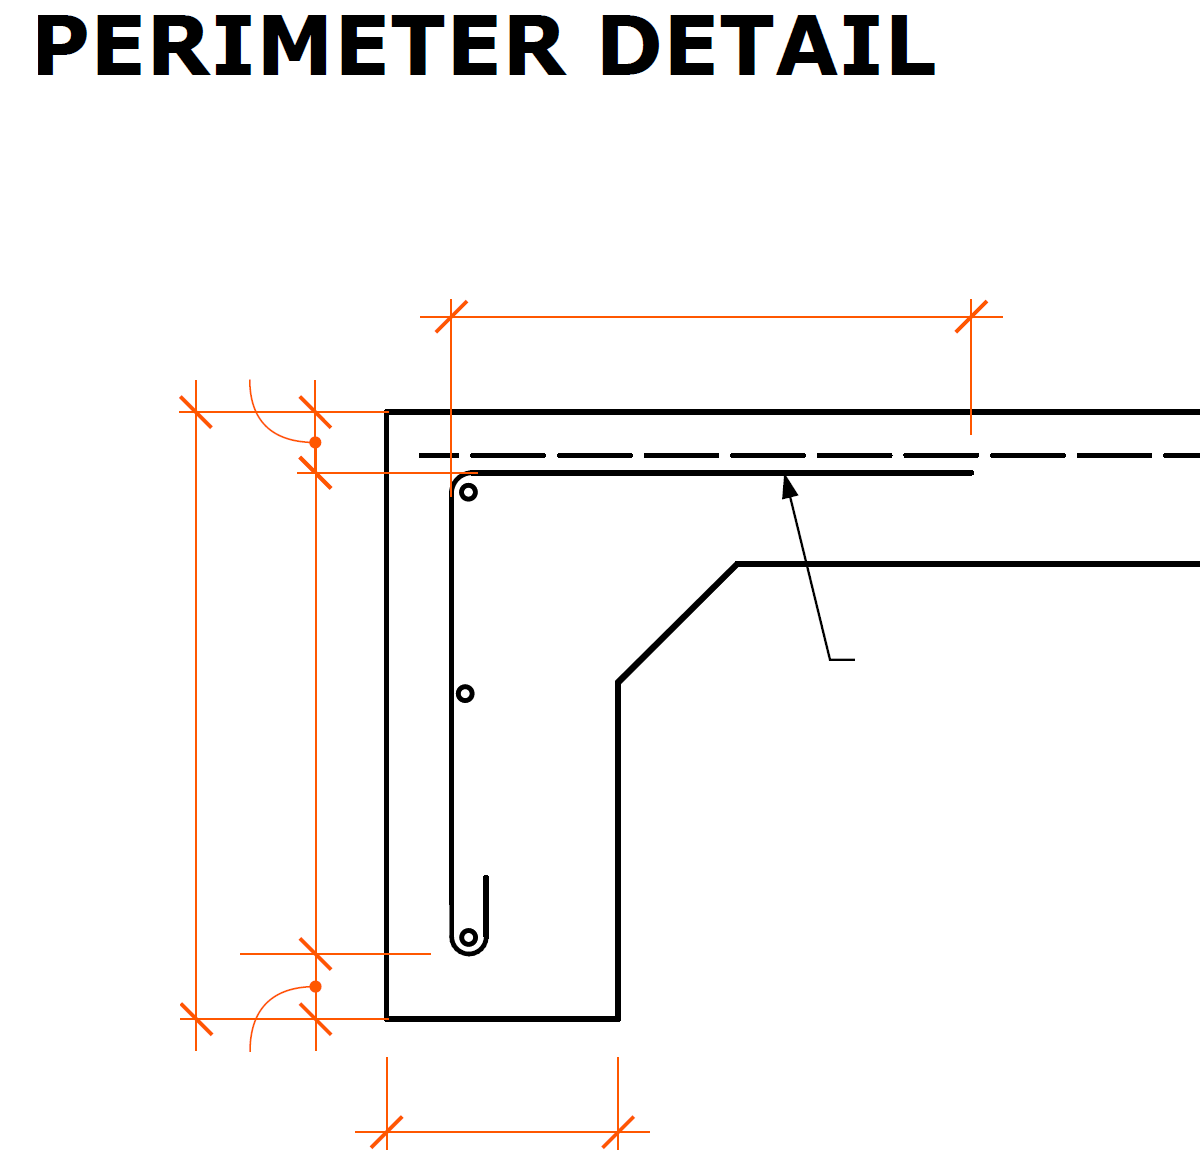
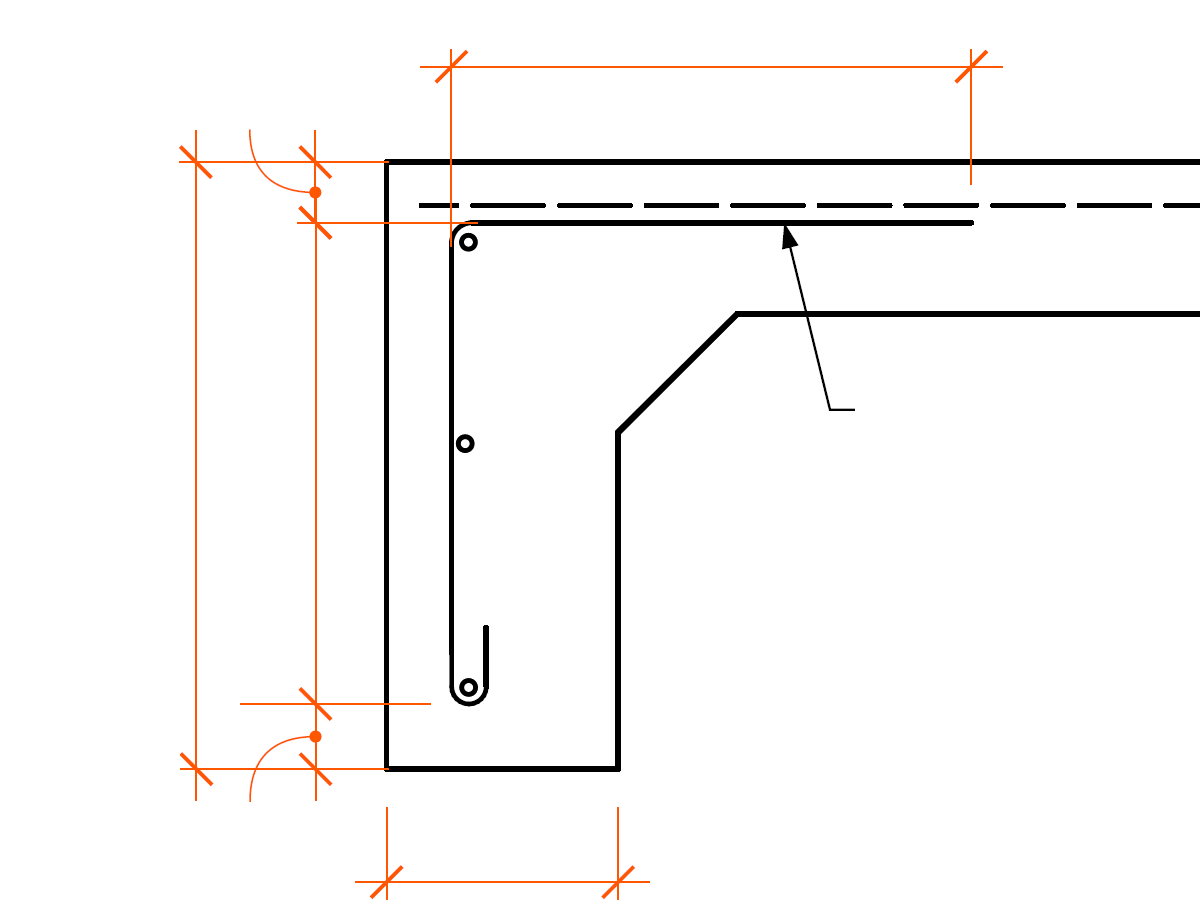
section details export, generovane pismena, upravene obrazky (je ale potrebne znovu nastavit koty v obrazkoch)

diff --git a/GENERAL/EXPIMP/Export/CMainReportExport.cs b/GENERAL/EXPIMP/Export/CMainReportExport.cs
@@ -904,6 +904,9 @@ namespace EXPIMP
             XFont fontNote = new XFont(fontFamily, fontSizeDetailTable, XFontStyle.Bold, options);
             XBrush brushNote = XBrushes.Black;
 
+            XFont fontBold_Title1 = new XFont("Verdana", 17, XFontStyle.Bold, options);
+            XFont fontBold_Title2 = new XFont("Verdana", 12, XFontStyle.Bold, options);
+
             CSlab slab = data.Model.m_arrSlabs.FirstOrDefault();
             if (slab == null) return;
             // To Mato - je to takto dobre? ze ak je null tak nemame co robit? 
@@ -974,13 +977,16 @@ namespace EXPIMP
 
             // TODO - skontrolovat ci sa dalsi obrazok vojde do sirky stranky, ak nie pridat novy rad (len ak sa vojde na vysku) alebo novu stranku
             // 2nd row
+            int verticalMargin = 50;
             dImagePosition_x = 2; // Zaciname znova od laveho okraja
-            double dRowPosition2 = dRowPosition;
+            double dRowPosition2 = dRowPosition + verticalMargin;
 
+            List<string> sectionDetailsLetters = new List<string>() { "A", "B", "C", "D", "E", "F" };
+            int sectionDetailsLetterIndex = 0;
+            string letter;
             List<CSlabPerimeter> diff_perimetersWithoutRebates = GetDifferentPerimetersWithoutRebates(slab.PerimeterBeams);
             List<CSlabPerimeter> diff_perimetersWithRebates = GetDifferentPerimetersWithRebates(slab.PerimeterBeams);
-            //diff perimeters aj s uvazoovanim RebateWidth a potom podala toho obrazky s SlabRebates
-
+            
             foreach (CSlabPerimeter perimeter in diff_perimetersWithoutRebates)
             {
                 XImage image = XImage.FromFile(ConfigurationManager.AppSettings["PerimeterDetail"]);
@@ -988,6 +994,11 @@ namespace EXPIMP
                 double imageHeightOriginal = image.PixelHeight;
                 gfx.DrawImage(image, dImagePosition_x, dRowPosition2, imageWidthOriginal * scale, imageHeightOriginal * scale);
                 image.Dispose();
+
+                letter = sectionDetailsLetters[sectionDetailsLetterIndex];
+                sectionDetailsLetterIndex++;
+                gfx.DrawString($"SECTION {letter}-{letter}", fontBold_Title1, XBrushes.Blue, dImagePosition_x + 20, dRowPosition2 + 10 - verticalMargin);
+                gfx.DrawString("PERIMETER DETAIL", fontBold_Title1, XBrushes.DarkOliveGreen, dImagePosition_x + 20, dRowPosition2 + 30 - verticalMargin);                
 
                 float fPerimeterDepth = perimeter.PerimeterDepth;
                 float fPerimeterBottomWidth = perimeter.PerimeterWidth;
@@ -1020,147 +1031,126 @@ namespace EXPIMP
                 string sTextP10 = iLongitud_Reinf_Intermediate_Count.ToString() + "x" + "HD" + (fLongitud_Reinf_Intermediate_Phi * 1000).ToString("F0");
                 string sTextP11 = sTextP9;
 
-                gfx.DrawString(sTextP2, fontDimension, brushDimension, dImagePosition_x + 45, dRowPosition2 + 224);
-                gfx.DrawString(sTextP4, fontDimension, brushDimension, dImagePosition_x + 45, dRowPosition2 + 99);
-                gfx.DrawString(sTextP5, fontDimension, brushDimension, dImagePosition_x + 90, dRowPosition2 + 224);
-                gfx.DrawString(sTextP6, fontDimension, brushDimension, dImagePosition_x + 100, dRowPosition2 + 54);
-                gfx.DrawString(sTextP7, fontNote, brushNote, dImagePosition_x + 180, dRowPosition2 + 134);
-                gfx.DrawString(sTextP8, fontNote, brushNote, dImagePosition_x + 180, dRowPosition2 + 144);
-                gfx.DrawString(sTextP9, fontNote, brushNote, dImagePosition_x + 100, dRowPosition2 + 109);
-                gfx.DrawString(sTextP10, fontNote, brushNote, dImagePosition_x + 93, dRowPosition2 + 149);
-                gfx.DrawString(sTextP11, fontNote, brushNote, dImagePosition_x + 100, dRowPosition2 + 194);
+                gfx.DrawString(sTextP2, fontDimension, brushDimension, dImagePosition_x + 45, dRowPosition2 + 224 - verticalMargin);
+                gfx.DrawString(sTextP4, fontDimension, brushDimension, dImagePosition_x + 45, dRowPosition2 + 105 - verticalMargin);
+                gfx.DrawString(sTextP5, fontDimension, brushDimension, dImagePosition_x + 90, dRowPosition2 + 224 - verticalMargin);
+                gfx.DrawString(sTextP6, fontDimension, brushDimension, dImagePosition_x + 100, dRowPosition2 + 59 - verticalMargin);
+                gfx.DrawString(sTextP7, fontNote, brushNote, dImagePosition_x + 180, dRowPosition2 + 134 - verticalMargin);
+                gfx.DrawString(sTextP8, fontNote, brushNote, dImagePosition_x + 180, dRowPosition2 + 144 - verticalMargin);
+                gfx.DrawString(sTextP9, fontNote, brushNote, dImagePosition_x + 100, dRowPosition2 + 109 - verticalMargin);
+                gfx.DrawString(sTextP10, fontNote, brushNote, dImagePosition_x + 93, dRowPosition2 + 149 - verticalMargin);
+                gfx.DrawString(sTextP11, fontNote, brushNote, dImagePosition_x + 100, dRowPosition2 + 194 - verticalMargin);
 
                 // Rotacia textu
-                // TODO Ondrej - ked su tam 2 detaily pre perimeter, tak sa tieto orotovane texty v druhom obrazku nezobrazia, resp su asi niekde mimo stranku
-
                 XGraphicsState state = gfx.Save();
-                gfx.RotateAtTransform(-90, new XPoint(dImagePosition_x + 35, dRowPosition + 144));
-                gfx.DrawString(sTextP1, fontDimension, brushDimension, dImagePosition_x + 35, dRowPosition2 + 144);
+                gfx.RotateAtTransform(-90, new XPoint(dImagePosition_x + 35, dRowPosition2 + 144 - verticalMargin));
+                gfx.DrawString(sTextP1, fontDimension, brushDimension, dImagePosition_x + 35, dRowPosition2 + 144 - verticalMargin);
                 gfx.Restore(state);
                 state = gfx.Save();
-                gfx.RotateAtTransform(-90, new XPoint(dImagePosition_x + 59, dRowPosition + 144));
-                gfx.DrawString(sTextP3, fontDimension, brushDimension, dImagePosition_x + 59, dRowPosition2 + 144);
+                gfx.RotateAtTransform(-90, new XPoint(dImagePosition_x + 59, dRowPosition2 + 144 - verticalMargin));
+                gfx.DrawString(sTextP3, fontDimension, brushDimension, dImagePosition_x + 59, dRowPosition2 + 144 - verticalMargin);
                 gfx.Restore(state);
 
                 dImagePosition_x += imageWidthOriginal * scale;
                 dRowPosition = Math.Max(dRowPosition, dRowPosition2 + dImagePosition_y + imageHeightOriginal * scale);
+            }
 
-                // Pre kazdy perimeter mozeme vlozit maximalne jeden detail roller door rebate, nezavisle na tom kolko doors v danom perimeter existuje
-                // Vsetky detaily rebates pre jeden perimeter budu rovnake, takze detail vlozime len raz
-
-                // TODO Ondrej - je tu takyto mensi problem
-                // Mam Perimeters ktore su pre L/R a F/B uplne rovnake
-                // Takze sa vklada jeden detail pre perimeter, ale nastavim inu hodnotu rebate pre F/B, to znamena ze by sa mali vykreslit 3 obrazky
-                // Perimeter Detail, Rebate 1 Detail (L/R) a Rebate 2 Detail (F/B)
-                // Kedze sme tu v cykle cez rozne perimeters, tak tento cyklus zbehne len raz takze Rebate 2 Detail sa nevykresli
-
-                if (data.DoorBlocksProperties != null && data.DoorBlocksProperties.Count > 0) // Some door exists
+            // Pre kazdy perimeter mozeme vlozit maximalne jeden detail roller door rebate, nezavisle na tom kolko doors v danom perimeter existuje
+            // Vsetky detaily rebates pre jeden perimeter budu rovnake, takze detail vlozime len raz
+            
+            if (data.DoorBlocksProperties != null && data.DoorBlocksProperties.Count > 0) // Some door exists
+            {
+                foreach (CSlabPerimeter perimeterDiffRebates in diff_perimetersWithRebates)
                 {
-                    foreach (CSlabPerimeter perimeterDiffRebates in diff_perimetersWithRebates)
+                    bool bAddRollerDoorDetail = false;
+                    foreach (DoorProperties prop in data.DoorBlocksProperties)
                     {
-                        if (perimeter.BuildingSide != perimeterDiffRebates.BuildingSide) continue;
-
-                        bool bAddRollerDoorDetail = false;
-                        foreach (DoorProperties prop in data.DoorBlocksProperties)
-                        {
-                            // Musime najst konkretny perimeter (left, right, front, back), v ktorom je rebate pre dane roller doors a pouzit hodnoty z konkretneho perimeter
-                            if (prop.sDoorType == "Roller Door" && perimeterDiffRebates.BuildingSide == prop.sBuildingSide)
-                                bAddRollerDoorDetail = true;
-                        }
-
-                        if (bAddRollerDoorDetail) // Add roller door rebate detail // Vsetky detaily rebates pre jeden perimeter budu rovnake, takze detail vlozime len raz
-                        {
-                            /////////////////////////////////////////////////////////////////////////////////////////////////////
-                            // TODO - Ondrej - Vlozit dynamicky nazov detailu - mal by to byt text Verdana, velkost 17
-                            // Daj mi vediet ci mam vymazat / odrezat tie nazvy / texty z obrazkov alebo ako to spravime
-
-                            // Pokus
-                            XFont fontBold_Title1 = new XFont("Verdana", 17, XFontStyle.Bold, options);
-                            XFont fontBold_Title2 = new XFont("Verdana", 12, XFontStyle.Bold, options);
-
-                            gfx.DrawString("SECTION C-C", fontBold_Title1, XBrushes.Blue, 400, 450);
-                            gfx.DrawString("ROLLER DOOR REBATE", fontBold_Title1, XBrushes.DarkOliveGreen, 400, 470);
-                            gfx.DrawString("[Confirm with door manufacture]", fontBold_Title2, XBrushes.DarkGreen, 400, 485);
-                            /////////////////////////////////////////////////////////////////////////////////////////////////////
-
-                            /*XImage*/
-                            image = XImage.FromFile(ConfigurationManager.AppSettings["RollerDoorRebateDetail"]);
-                            /*double*/
-                            imageWidthOriginal = image.PixelWidth;
-                            /*double*/
-                            imageHeightOriginal = image.PixelHeight;
-
-                            if (dImagePosition_x + imageWidthOriginal * scale > gfx.PageSize.Width) { dImagePosition_x = 2; dRowPosition2 = dRowPosition + 15; }
-
-                            gfx.DrawImage(image, dImagePosition_x, dRowPosition2, imageWidthOriginal * scale, imageHeightOriginal * scale);
-                            image.Dispose();
-
-                            float fRebateDepth_Step = 0;
-                            float fRebateDepth_Edge = 0;
-                            float fRollerDoorRebate = 0f;
-
-                            if (perimeterDiffRebates.SlabRebates != null)
-                            {
-                                // Tu by sa mali nacitat data pre rebate, v pripade ze su v perimeter viacere rebates s roznymi parametrami mal by sa pridat detail pre kazdy z nich, to sa ale nestane
-                                // Neumoznujeme, aby mal kazdy rebate v jednom perimeter inu sirku alebo sklon
-
-                                fRebateDepth_Step = perimeterDiffRebates.SlabRebates.First().RebateDepth_Step; // 0.01f;
-                                fRebateDepth_Edge = perimeterDiffRebates.SlabRebates.First().RebateDepth_Edge; // 0.02f;
-                                fRollerDoorRebate = perimeterDiffRebates.SlabRebates.First().RebateWidth; // 0.5f;
-                            }
-
-                            fPerimeterDepth = perimeterDiffRebates.PerimeterDepth;
-                            fPerimeterBottomWidth = perimeterDiffRebates.PerimeterWidth;
-                            fMeshAndStartersOverlapping = perimeterDiffRebates.StartersLapLength;
-                            fStartersDiameter = perimeterDiffRebates.Starters_Phi;
-                            fStartersSpacing = perimeterDiffRebates.StartersSpacing;
-                            fLongitud_Reinf_TopAndBotom_Phi = perimeterDiffRebates.Longitud_Reinf_TopAndBotom_Phi;
-                            fLongitud_Reinf_Intermediate_Phi = perimeterDiffRebates.Longitud_Reinf_Intermediate_Phi;
-                            iLongitud_Reinf_Intermediate_Count = perimeterDiffRebates.Longitud_Reinf_Intermediate_Count;
-
-                            float fPerimeterDepthRebate = fPerimeterDepth - fRebateDepth_Edge; // Default (10 + 10 mm)
-
-                            sTextP1 = (fPerimeterDepthRebate * 1000).ToString("F0");
-                            sTextP3 = (fRebateDepth_Step * 1000).ToString("F0"); // Step
-
-                            sTextP4 = ((fRebateDepth_Edge - fRebateDepth_Step) * 1000).ToString("F0"); // Slope between the edge and step
-                            sTextP6 = (fRollerDoorRebate * 1000).ToString("F0");
-
-
-                            //f = data.Model.m_arrFoundations.FirstOrDefault();
-                            fPerimeterCover = f.ConcreteCover; // TODO - asi by to mala byt samostatna polozka - property v CPerimeter
-
-                            sTextP2 = (fPerimeterCover * 1000).ToString("F0");
-                            sTextP5 = (fPerimeterBottomWidth * 1000).ToString("F0");
-                            sTextP7 = "HD" + (fStartersDiameter * 1000).ToString("F0") + " Starters";
-                            sTextP8 = (fStartersSpacing * 1000).ToString("F0") + " mm crs";
-                            sTextP9 = "HD" + (fLongitud_Reinf_TopAndBotom_Phi * 1000).ToString("F0");
-                            sTextP10 = iLongitud_Reinf_Intermediate_Count.ToString() + "x" + "HD" + (fLongitud_Reinf_Intermediate_Phi * 1000).ToString("F0");
-                            sTextP11 = sTextP9;
-
-                            //Rotacia textu
-                            state = gfx.Save();
-                            gfx.RotateAtTransform(-90, new XPoint(dImagePosition_x + 35, dRowPosition2 + 144));
-                            gfx.DrawString(sTextP1, fontDimension, brushDimension, dImagePosition_x + 35, dRowPosition2 + 144);
-                            gfx.Restore(state);
-
-                            gfx.DrawString(sTextP2, fontDimension, brushDimension, dImagePosition_x + 45, dRowPosition2 + 224);
-                            gfx.DrawString(sTextP3, fontDimension, brushDimension, dImagePosition_x + 25, dRowPosition2 + 74);
-                            gfx.DrawString(sTextP4, fontDimension, brushDimension, dImagePosition_x + 25, dRowPosition2 + 99);
-                            gfx.DrawString(sTextP5, fontDimension, brushDimension, dImagePosition_x + 90, dRowPosition2 + 224);
-                            gfx.DrawString(sTextP6, fontDimension, brushDimension, dImagePosition_x + 130, dRowPosition2 + 54);
-
-                            // Longitudinal reinforcement - Toto je asi zbytocna duplicita, uz je to oznacene v perimeter, ale zatial to tak necham.
-                            gfx.DrawString(sTextP9, fontNote, brushNote, dImagePosition_x + 100, dRowPosition2 + 109);
-                            gfx.DrawString(sTextP10, fontNote, brushNote, dImagePosition_x + 93, dRowPosition2 + 149);
-                            gfx.DrawString(sTextP11, fontNote, brushNote, dImagePosition_x + 100, dRowPosition2 + 194);
-
-                            dImagePosition_x += imageWidthOriginal * scale;
-                            dRowPosition = Math.Max(dRowPosition, dRowPosition2 + dImagePosition_y + imageHeightOriginal * scale);
-                        }
+                        // Musime najst konkretny perimeter (left, right, front, back), v ktorom je rebate pre dane roller doors a pouzit hodnoty z konkretneho perimeter
+                        if (prop.sDoorType == "Roller Door" && perimeterDiffRebates.BuildingSide == prop.sBuildingSide)
+                            bAddRollerDoorDetail = true;
                     }
 
+                    if (bAddRollerDoorDetail) // Add roller door rebate detail // Vsetky detaily rebates pre jeden perimeter budu rovnake, takze detail vlozime len raz
+                    {
+                        letter = sectionDetailsLetters[sectionDetailsLetterIndex];
+                        sectionDetailsLetterIndex++;
+                        gfx.DrawString($"SECTION {letter}-{letter}", fontBold_Title1, XBrushes.Blue, dImagePosition_x + 20, dRowPosition2 + 10 - verticalMargin);
+                        gfx.DrawString("ROLLER DOOR REBATE", fontBold_Title1, XBrushes.DarkOliveGreen, dImagePosition_x + 20, dRowPosition2 + 30 - verticalMargin);
+                        gfx.DrawString("[Confirm with door manufacture]", fontBold_Title2, XBrushes.DarkGreen, dImagePosition_x + 20, dRowPosition2 + 45 - verticalMargin);
+
+                        XImage image = XImage.FromFile(ConfigurationManager.AppSettings["RollerDoorRebateDetail"]);
+                        double imageWidthOriginal = image.PixelWidth;
+                        double imageHeightOriginal = image.PixelHeight;
+
+                        if (dImagePosition_x + imageWidthOriginal * scale > gfx.PageSize.Width) { dImagePosition_x = 2; dRowPosition2 = dRowPosition + 15; }
+
+                        gfx.DrawImage(image, dImagePosition_x, dRowPosition2, imageWidthOriginal * scale, imageHeightOriginal * scale);
+                        image.Dispose();
+
+                        float fRebateDepth_Step = 0;
+                        float fRebateDepth_Edge = 0;
+                        float fRollerDoorRebate = 0f;
+
+                        if (perimeterDiffRebates.SlabRebates != null)
+                        {
+                            // Tu by sa mali nacitat data pre rebate, v pripade ze su v perimeter viacere rebates s roznymi parametrami mal by sa pridat detail pre kazdy z nich, to sa ale nestane
+                            // Neumoznujeme, aby mal kazdy rebate v jednom perimeter inu sirku alebo sklon
+
+                            fRebateDepth_Step = perimeterDiffRebates.SlabRebates.First().RebateDepth_Step; // 0.01f;
+                            fRebateDepth_Edge = perimeterDiffRebates.SlabRebates.First().RebateDepth_Edge; // 0.02f;
+                            fRollerDoorRebate = perimeterDiffRebates.SlabRebates.First().RebateWidth; // 0.5f;
+                        }
+
+                        float fPerimeterDepth = perimeterDiffRebates.PerimeterDepth;
+                        float fPerimeterBottomWidth = perimeterDiffRebates.PerimeterWidth;
+                        float fMeshAndStartersOverlapping = perimeterDiffRebates.StartersLapLength;
+                        float fStartersDiameter = perimeterDiffRebates.Starters_Phi;
+                        float fStartersSpacing = perimeterDiffRebates.StartersSpacing;
+                        float fLongitud_Reinf_TopAndBotom_Phi = perimeterDiffRebates.Longitud_Reinf_TopAndBotom_Phi;
+                        float fLongitud_Reinf_Intermediate_Phi = perimeterDiffRebates.Longitud_Reinf_Intermediate_Phi;
+                        int iLongitud_Reinf_Intermediate_Count = perimeterDiffRebates.Longitud_Reinf_Intermediate_Count;
+
+                        float fPerimeterDepthRebate = fPerimeterDepth - fRebateDepth_Edge; // Default (10 + 10 mm)
+
+                        string sTextP1 = (fPerimeterDepthRebate * 1000).ToString("F0");
+                        string sTextP3 = (fRebateDepth_Step * 1000).ToString("F0"); // Step
+                        string sTextP4 = ((fRebateDepth_Edge - fRebateDepth_Step) * 1000).ToString("F0"); // Slope between the edge and step
+                        string sTextP6 = (fRollerDoorRebate * 1000).ToString("F0");
+
+
+                        CFoundation f = data.Model.m_arrFoundations.FirstOrDefault();
+                        float fPerimeterCover = f.ConcreteCover; // TODO - asi by to mala byt samostatna polozka - property v CPerimeter
+
+                        string sTextP2 = (fPerimeterCover * 1000).ToString("F0");
+                        string sTextP5 = (fPerimeterBottomWidth * 1000).ToString("F0");
+                        string sTextP7 = "HD" + (fStartersDiameter * 1000).ToString("F0") + " Starters";
+                        string sTextP8 = (fStartersSpacing * 1000).ToString("F0") + " mm crs";
+                        string sTextP9 = "HD" + (fLongitud_Reinf_TopAndBotom_Phi * 1000).ToString("F0");
+                        string sTextP10 = iLongitud_Reinf_Intermediate_Count.ToString() + "x" + "HD" + (fLongitud_Reinf_Intermediate_Phi * 1000).ToString("F0");
+                        string sTextP11 = sTextP9;
+
+                        //Rotacia textu
+                        XGraphicsState state = gfx.Save();
+                        gfx.RotateAtTransform(-90, new XPoint(dImagePosition_x + 35, dRowPosition2 + 144 - verticalMargin));
+                        gfx.DrawString(sTextP1, fontDimension, brushDimension, dImagePosition_x + 35, dRowPosition2 + 144 - verticalMargin);
+                        gfx.Restore(state);
+
+                        gfx.DrawString(sTextP2, fontDimension, brushDimension, dImagePosition_x + 45, dRowPosition2 + 224 - verticalMargin);
+                        gfx.DrawString(sTextP3, fontDimension, brushDimension, dImagePosition_x + 25, dRowPosition2 + 74 - verticalMargin);
+                        gfx.DrawString(sTextP4, fontDimension, brushDimension, dImagePosition_x + 25, dRowPosition2 + 99 - verticalMargin);
+                        gfx.DrawString(sTextP5, fontDimension, brushDimension, dImagePosition_x + 90, dRowPosition2 + 224 - verticalMargin);
+                        gfx.DrawString(sTextP6, fontDimension, brushDimension, dImagePosition_x + 130, dRowPosition2 + 59 - verticalMargin);
+
+                        // Longitudinal reinforcement - Toto je asi zbytocna duplicita, uz je to oznacene v perimeter, ale zatial to tak necham.
+                        gfx.DrawString(sTextP9, fontNote, brushNote, dImagePosition_x + 100, dRowPosition2 + 109 - verticalMargin);
+                        gfx.DrawString(sTextP10, fontNote, brushNote, dImagePosition_x + 93, dRowPosition2 + 149 - verticalMargin);
+                        gfx.DrawString(sTextP11, fontNote, brushNote, dImagePosition_x + 100, dRowPosition2 + 194 - verticalMargin);
+
+                        dImagePosition_x += imageWidthOriginal * scale;
+                        dRowPosition = Math.Max(dRowPosition, dRowPosition2 + dImagePosition_y + imageHeightOriginal * scale);
+                    }
                 }
+
             }
 
             gfx.Dispose();

diff --git a/TOPO/BaseClasses/Model/Foundations/CSlabPerimeter.cs b/TOPO/BaseClasses/Model/Foundations/CSlabPerimeter.cs
@@ -212,7 +212,7 @@ namespace BaseClasses
 
         public bool EqualsWithRebates(object obj)
         {
-            if (!base.Equals(obj)) return false;
+            if (!this.Equals(obj)) return false;
 
             if (obj == null) return false;
             if (!(obj is CSlabPerimeter)) return false;
@@ -221,7 +221,7 @@ namespace BaseClasses
             if (SlabRebates.FirstOrDefault() == null) return false;
             if (perimeter.SlabRebates.FirstOrDefault() == null) return false;
 
-            return MathF.d_equal( SlabRebates.FirstOrDefault().RebateWidth, perimeter.SlabRebates.FirstOrDefault().RebateWidth);
+            return MathF.d_equal(SlabRebates.FirstOrDefault().RebateWidth, perimeter.SlabRebates.FirstOrDefault().RebateWidth);
         }
     }
 }
